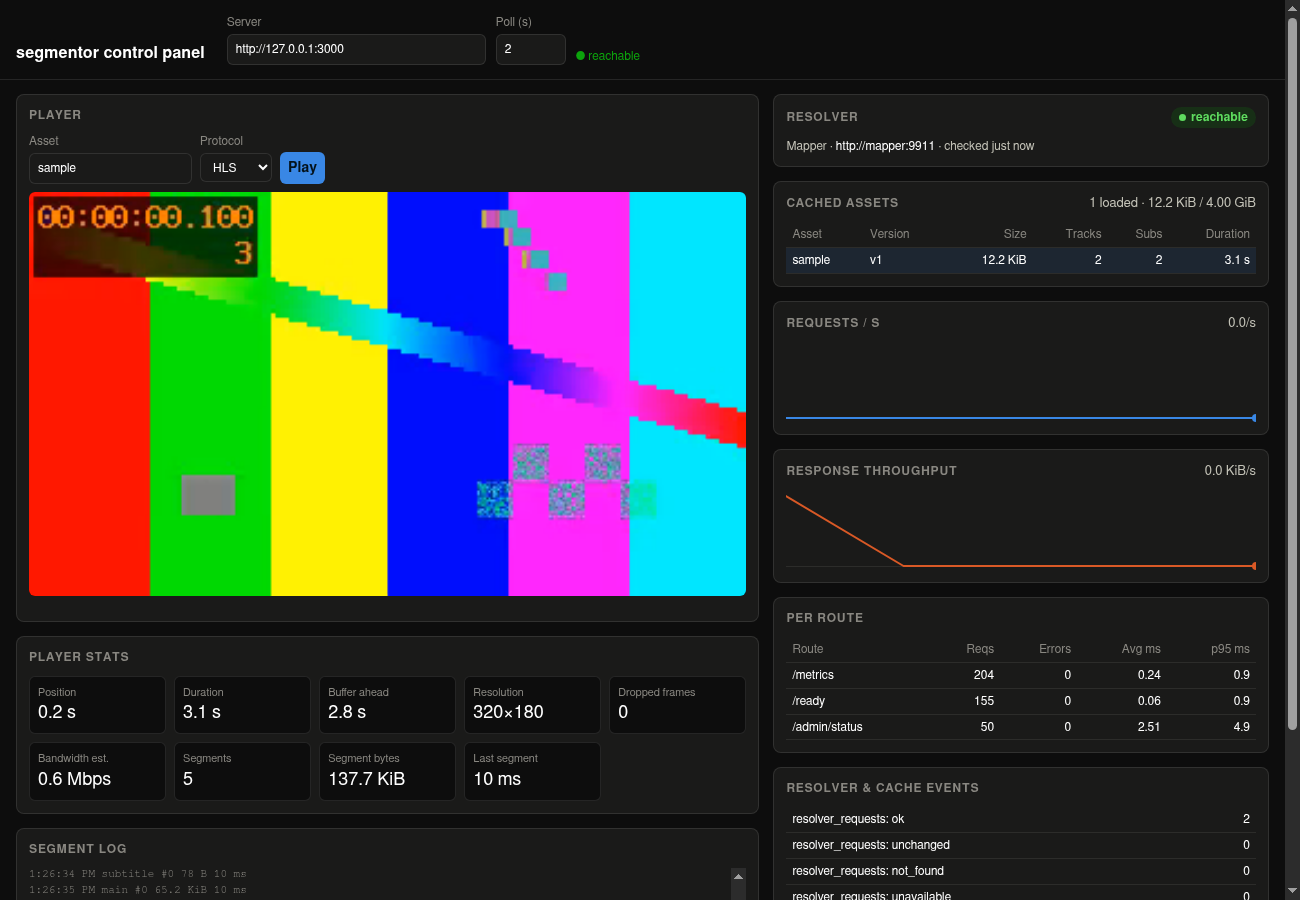
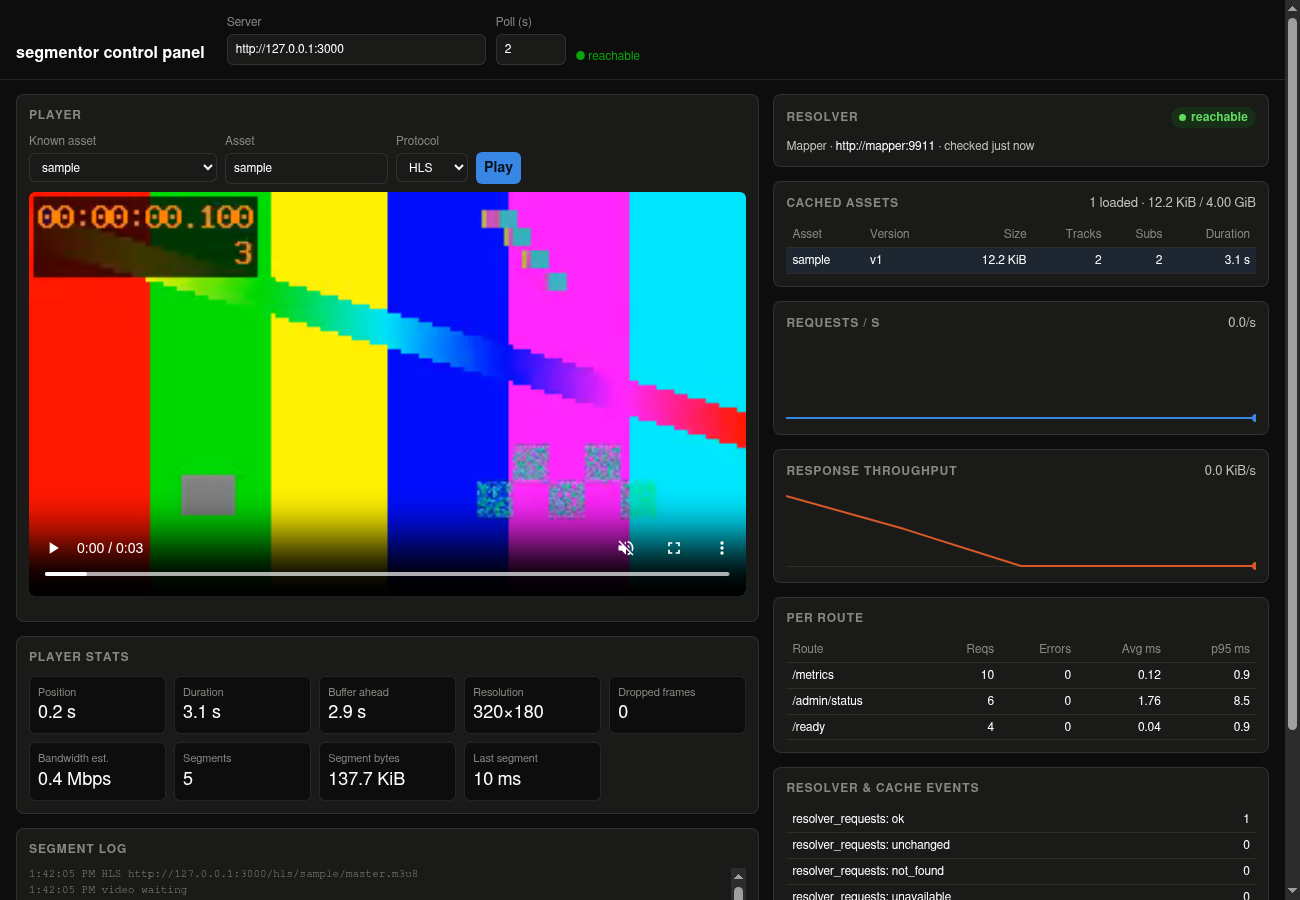
feat(admin): replace the asset chip row with a dropdown, custom names still typeable

diff --git a/admin/index.html b/admin/index.html
@@ -21,9 +21,6 @@
   input, select, button { background:var(--surface); color:var(--ink); border:1px solid var(--border); border-radius:6px; padding:6px 8px; font:inherit; }
   button { cursor:pointer; background:var(--accent); color:#04121b; border:0; font-weight:600; }
   button.ghost { background:var(--surface); color:var(--ink); border:1px solid var(--border); font-weight:500; }
-  .chip { background:var(--page); border:1px solid var(--border); border-radius:99px; padding:2px 10px; color:var(--ink); cursor:pointer; font:inherit; font-size:12px; }
-  .chip:hover { border-color:var(--accent); color:var(--accent); }
-  .chip.current { border-color:var(--accent); color:var(--accent); background:rgba(57,135,229,.14); }
   main { display:grid; grid-template-columns:minmax(0,3fr) minmax(0,2fr); gap:14px; padding:14px 16px; }
   @media (max-width:1000px) { main { grid-template-columns:1fr; } }
   .panel { background:var(--surface); border:1px solid var(--border); border-radius:8px; padding:12px; }
@@ -71,11 +68,13 @@
     <div class="panel">
       <div class="panel-head"><h2>Player</h2></div>
       <div style="display:flex; gap:8px; flex-wrap:wrap; margin-bottom:8px">
+        <label>Known asset
+          <select id="asset-picker"><option value="">— pick one, or type below —</option></select>
+        </label>
         <label>Asset <input id="asset" size="14" value="sample"></label>
         <label>Protocol<select id="proto"><option value="hls">HLS</option><option value="dash">DASH</option></select></label>
         <button id="load" style="align-self:end">Play</button>
       </div>
-      <div id="try-row" style="margin-bottom:8px;font-size:12px;color:var(--muted)"></div>
       <video id="video" controls muted loop playsinline></video>
       <div id="diag" style="margin-top:8px;font-size:12px"></div>
     </div>
@@ -207,17 +206,18 @@ function markCurrentRow() {
   const current = $('asset').value;
   for (const row of document.querySelectorAll('#cache tbody tr'))
     row.classList.toggle('current', row.dataset.asset === current);
-  for (const chip of document.querySelectorAll('#try-row .chip'))
-    chip.classList.toggle('current', chip.dataset.asset === current);
+  // The picker only ever shows a known asset; typing a custom name falls back to its
+  // placeholder rather than pretending one of the listed assets is selected.
+  const picker = $('asset-picker');
+  picker.value = [...picker.options].some(o => o.value === current) ? current : '';
 }
 
-/// A quick way into playback besides typing a name: the same asset IDs the cache table lists,
-/// right next to the input where a first-time visitor is already looking.
-function renderTryRow(ids) {
-  const row = $('try-row');
-  if (!ids.length) { row.textContent = ''; return; }
-  row.innerHTML = 'Try: ' + ids.map(id => `<button class="chip" data-asset="${escapeHtml(id)}">${escapeHtml(id)}</button>`).join(' ');
-  for (const chip of row.querySelectorAll('.chip')) chip.onclick = () => playAsset(chip.dataset.asset);
+/// The dropdown next to the Asset field: every asset ID the cache table lists. Picking one plays
+/// it; typing a name that isn't listed (a mapper asset nobody has requested yet, for example)
+/// keeps working in the text field regardless, since the picker is a convenience, not a gate.
+function renderAssetPicker(ids) {
+  $('asset-picker').innerHTML = '<option value="">— pick one, or type below —</option>'
+    + ids.map(id => `<option value="${escapeHtml(id)}">${escapeHtml(id)}</option>`).join('');
   markCurrentRow();
 }
 
@@ -349,7 +349,7 @@ function renderCache(cache, knownAssets) {
     : '';
   for (const row of $('cache').tBodies[0].rows)
     row.onclick = () => playAsset(row.dataset.asset);
-  renderTryRow([...rows.keys()].sort());
+  renderAssetPicker([...rows.keys()].sort());
 }
 
 function escapeHtml(s) {
@@ -405,7 +405,8 @@ async function poll() {
 }
 
 $('load').onclick = load;
-$('asset').addEventListener('change', markCurrentRow);
+$('asset').addEventListener('input', markCurrentRow);
+$('asset-picker').addEventListener('change', () => { if ($('asset-picker').value) playAsset($('asset-picker').value); });
 load();
 clearTimeout(pollTimer);
 poll();

diff --git a/docs/usage.md b/docs/usage.md
@@ -49,7 +49,7 @@ The page reads `/metrics` cross-origin, so keep `[cors]` enabled, as in `vod.exa
 
 ## Control panel
 
-`admin/index.html` is a second single-file page, separate from the player demo, for operating a running instance: it polls `/admin/status` for the resolver's live connection state and every asset currently in the loaded-asset cache (version, size, tracks, duration), and `/metrics` for the same request and throughput charts the player demo shows. It also embeds the same HLS/DASH player and the same "Try:" row of clickable asset IDs, so you can play anything the status view names without leaving the page.
+`admin/index.html` is a second single-file page, separate from the player demo, for operating a running instance: it polls `/admin/status` for the resolver's live connection state and every asset currently in the loaded-asset cache (version, size, tracks, duration), and `/metrics` for the same request and throughput charts the player demo shows. It also embeds the same HLS/DASH player, with a "Known asset" dropdown next to the Asset field listing everything the status view names, so you can pick a playable asset without leaving the page or typing its ID — the field itself still takes any name, known or not.
 
 ```sh
 make serve   # terminal 1: the origin on :3000
